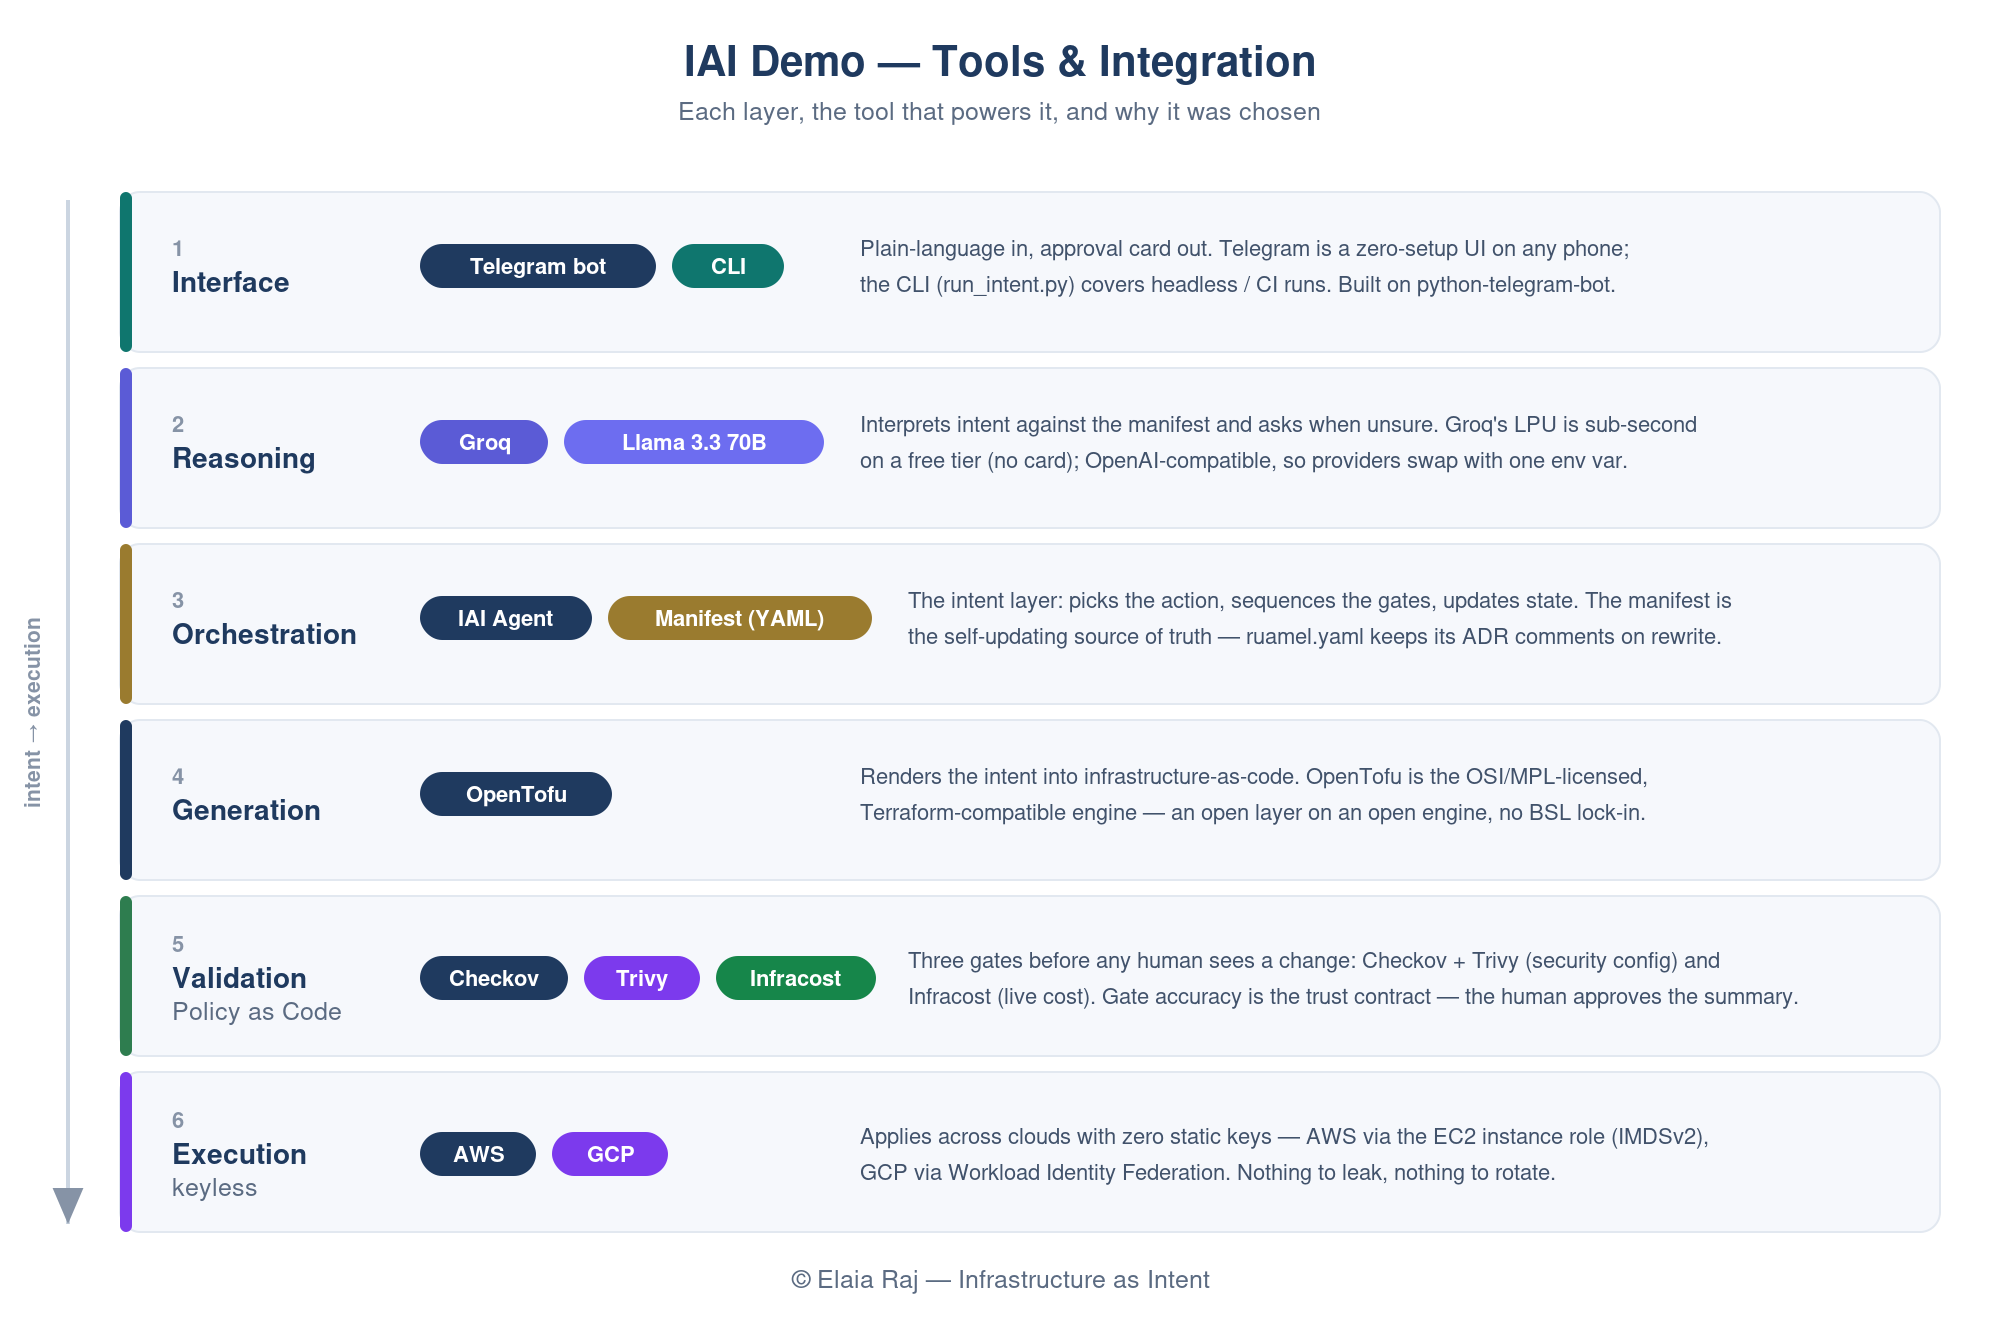
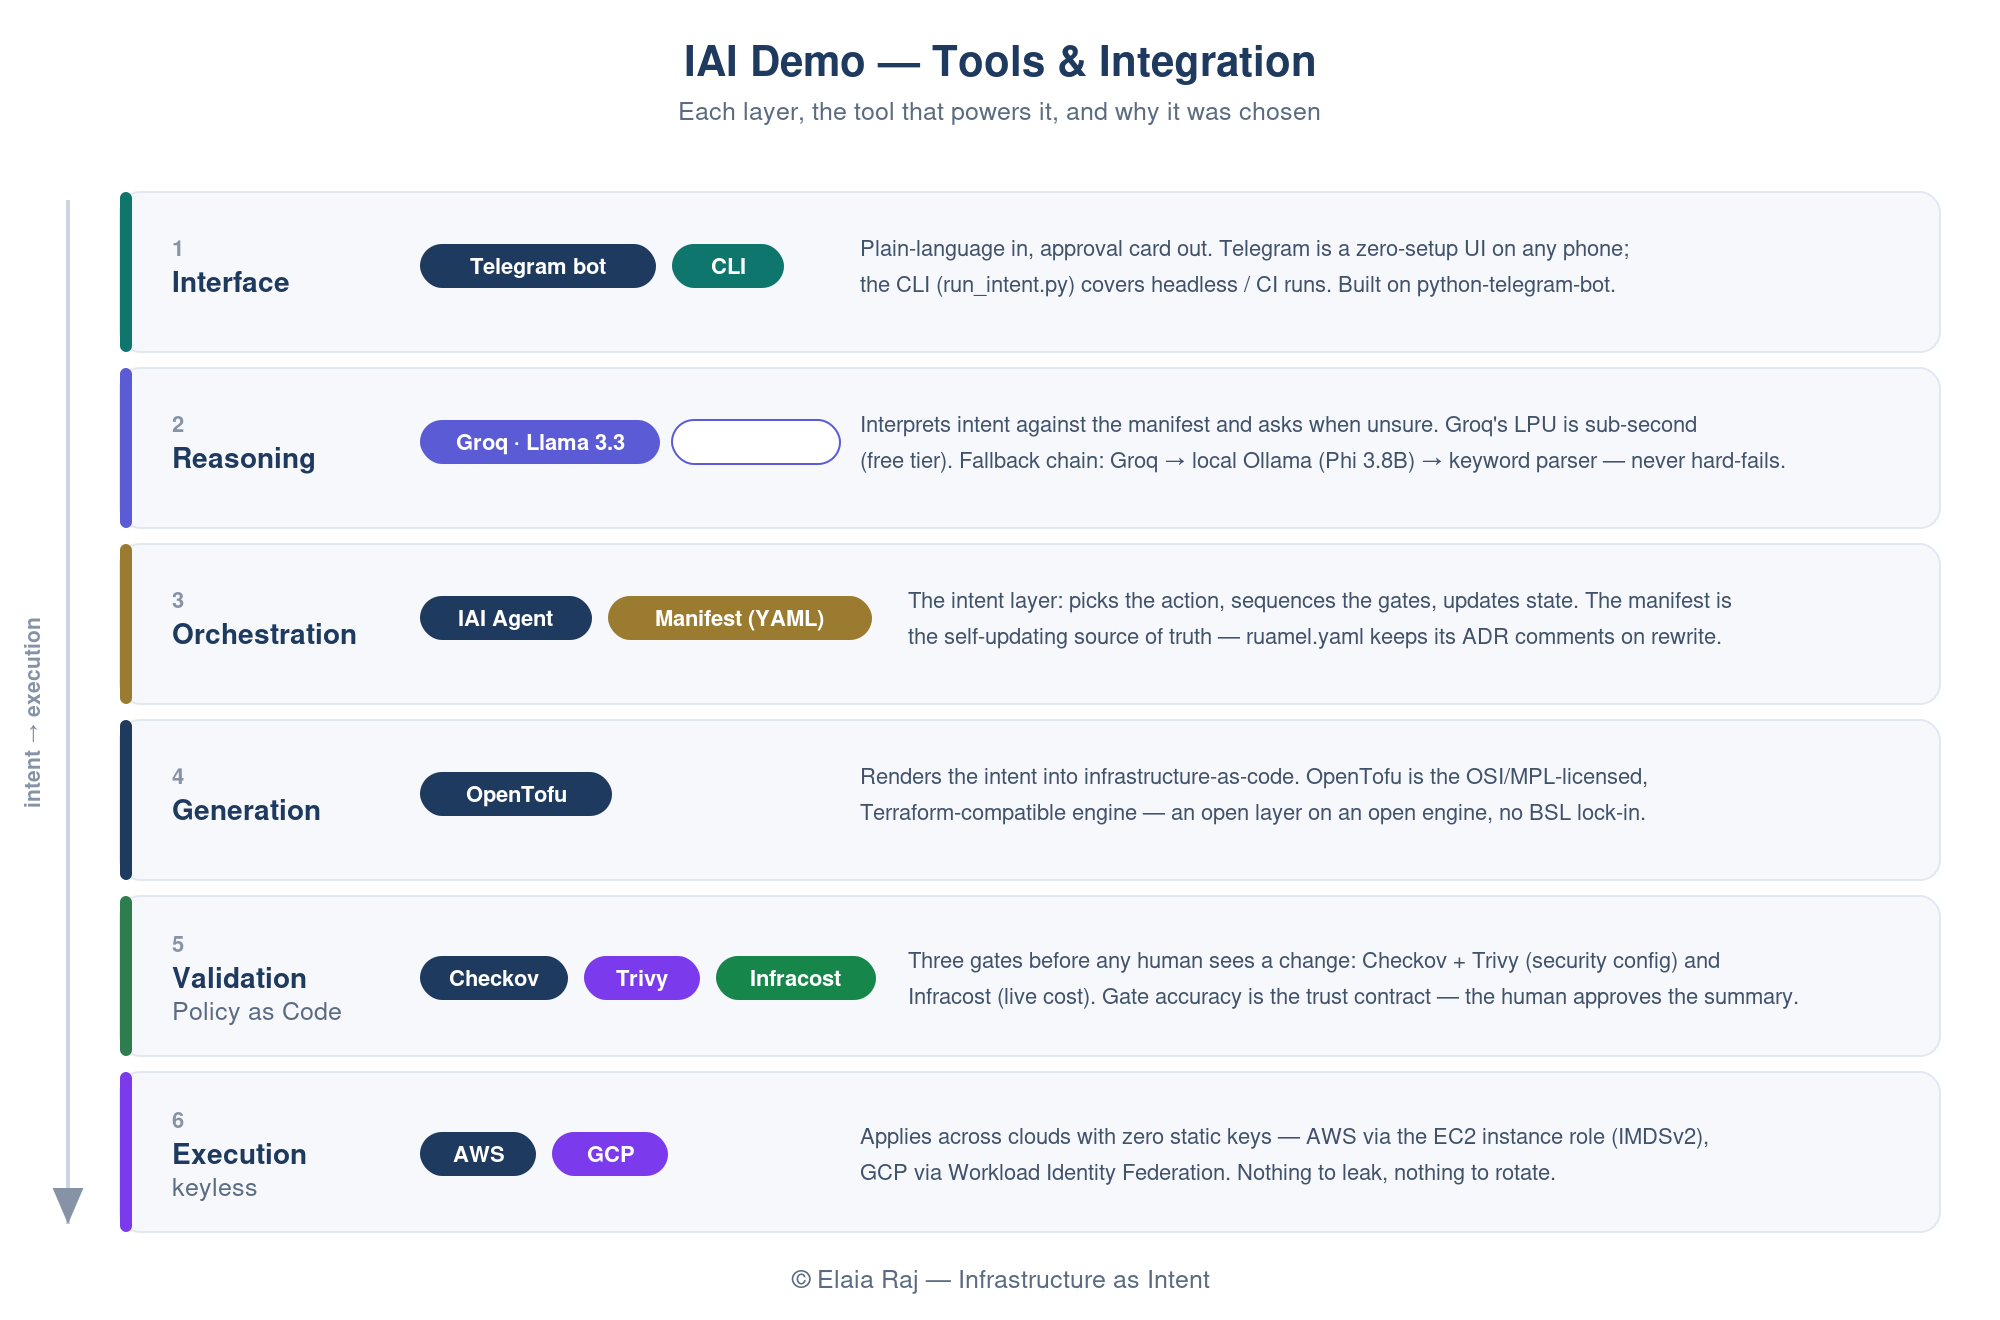
docs: trunk-based branching, hermetic test guide, Ollama fallback; remove stale files

Changed region(s): [[0.217, 0.3106, 0.899, 0.3727]]

diff --git a/GETTING_STARTED.md b/GETTING_STARTED.md
@@ -15,11 +15,13 @@ You need these on your `PATH`. Versions shown are minimums.
 
 | Tool | Purpose | Install |
 |---|---|---|
-| Python ≥ 3.10 | runs the agent | your OS package manager / python.org |
-| OpenTofu ≥ 1.7 | generates & applies IaC | <https://opentofu.org/docs/intro/install/> · `brew install opentofu` |
-| Infracost | cost gate | <https://www.infracost.io/docs/#quick-start> · `brew install infracost` |
-| Trivy | security gate | <https://trivy.dev/latest/getting-started/installation/> · `brew install trivy` |
+| Python ≥ 3.10 | runs the agent | your OS package manager, or python.org |
+| OpenTofu ≥ 1.7 | generates & applies IaC | <https://opentofu.org/docs/intro/install/> |
+| Infracost | cost gate | <https://www.infracost.io/docs/#quick-start> |
+| Trivy | security gate | <https://trivy.dev/latest/getting-started/installation/> |
 | Checkov | security gate | installed via `requirements.txt` (pip) |
+
+Each tool's install page covers Linux, macOS, and Windows — follow whichever matches your machine. The demo's reference host is Ubuntu 22.04.
 
 Quick check once installed:
 
@@ -131,6 +133,20 @@ Re-run with a destroy intent (e.g. *"tear down the payments staging environment"
 ```bash
 tofu -chdir=terraform/generated destroy
 ```
+
+---
+
+## 7. Run the tests
+
+The suite is **hermetic** — it uses golden fixtures and the offline passthrough, so it needs only the Python dependencies. No cloud tools, no API keys, no network:
+
+```bash
+source .venv/bin/activate
+pip install -r requirements.txt pytest
+python -m pytest tests/
+```
+
+You should see **35 passed**. They cover the manifest reader (parsing, criticality, comment-preserving round-trip), the IaC generator (tagging, criticality transitivity, greenfield enforcement), the gates' output handling and golden security fixtures (known-bad must flag, known-good must pass), and the full black-box flow (intent → card, cost figure traces back to the gate, no raw tool output leaks into the summary). To exercise the gates against the *live* tools instead of fixtures, install OpenTofu, Checkov, Trivy, and Infracost (step 1) and run the pipeline via the CLI.
 
 ---
 

diff --git a/docs/how-it-works.md b/docs/how-it-works.md
@@ -13,7 +13,7 @@ This document explains what the demo does end to end, the tools it uses, how the
 A request travels through one straight pipeline with exactly one human decision in the middle:
 
 1. **Intent.** A plain-language request arrives via Telegram or the CLI — for example, *"Set up the payments staging environment."* The manifest already knows what that environment contains, so the user doesn't restate it. No code, no console.
-2. **Parse + reason.** An LLM interprets the request *against the platform manifest* and decides an action: provision, modify, destroy — or **clarify**. If the request is ambiguous it asks one short question and waits, rather than guessing. The conversation is remembered, so your answer composes with what you already said.
+2. **Parse + reason.** An LLM interprets the request *against the platform manifest* and decides an action: provision, modify, destroy — or **clarify**. If the request is ambiguous it asks one short question and waits, rather than guessing. The conversation is remembered, so your answer composes with what you already said. Inference uses a deliberate fallback chain — **Groq (Llama 3.3 70B)** for sub-second hosted reasoning by default, a **local Ollama model (Phi 3.8B)** if no hosted key is set, and a keyword parser if neither is reachable — so the agent stays self-hostable and never hard-fails.
 3. **Read the manifest.** The agent consults the manifest — the source of truth for what already exists and which engine owns each resource — instead of guessing.
 4. **Generate.** It writes OpenTofu for the requested resources across AWS and GCP.
 5. **Three gates.** A plan (what changes), a security scan (Checkov + Trivy), and a cost estimate (Infracost) all run automatically. The security gate catches a security group left open to the internet and restricts it; the cost gate prices what was actually generated.
@@ -33,7 +33,7 @@ Each layer is a swappable engine under the same intent layer. The table below re
 | Layer | Tool | Why this, and not the alternative |
 |---|---|---|
 | Interface | **Telegram bot** + **CLI** (`python-telegram-bot`) | Telegram is a zero-setup approval UI that works on any phone — no web app to host. The CLI (`run_intent.py`) gives the same pipeline for headless and CI use, and makes the project runnable with no messaging infrastructure at all. |
-| Reasoning | **Groq** running **Llama 3.3 70B** | The intent parse was the slowest beat on a local model (~60–90s on Ollama/phi). Groq's LPU returns the same result sub-second on a free tier with no credit card. Because the endpoint is OpenAI-compatible, switching to Cerebras, OpenAI, or a local Ollama model is a one-line env change. |
+| Reasoning | **Groq** (Llama 3.3 70B), with **Ollama / Phi 3.8B** as a local fallback | The intent parse was the slowest beat on a purely local model (~60–90s on Ollama / Phi 3.8B). Groq's LPU returns the same result sub-second on a free tier with no credit card. The provider chain is intentional — **Groq → local Ollama (Phi 3.8B) → keyword passthrough** — so the agent is fast by default, fully self-hostable offline, and never a hard failure if a key or the network is missing. Because the endpoint is OpenAI-compatible, swapping to Cerebras or OpenAI is a one-line env change. |
 | Orchestration | **IAI Agent** + **Platform Manifest** (annotated YAML via `ruamel.yaml`) | The manifest is human-readable and ADR-style — it records *why*, not just specs — and it is self-maintaining: the agent reads it to generate and rewrites it after apply. `ruamel.yaml` is used specifically because it preserves the human comments through that machine rewrite, which a plain YAML loader would strip. |
 | Generation | **OpenTofu** | Open-source (MPL) and a drop-in for Terraform's language. It avoids Terraform's BSL licensing concerns for a tool that orchestrates other IaC, and it is on-brand: an open intent layer over an open engine. The whitepaper keeps "Terraform" as the generic term and the one approved phrase "not a Terraform wrapper." |
 | Validation (Policy as Code) | **Checkov** + **Trivy** (security) · **Infracost** (cost) | Three gates run before any human sees a change. Checkov is the primary policy engine with Trivy as a second scanner (tfsec was dropped — it's deprecated and folded into Trivy). Infracost prices the generated resources. Gate accuracy is the trust contract: the human approves the agent's summary, so a gate that misses a bad config or misstates cost breaks the whole premise. |